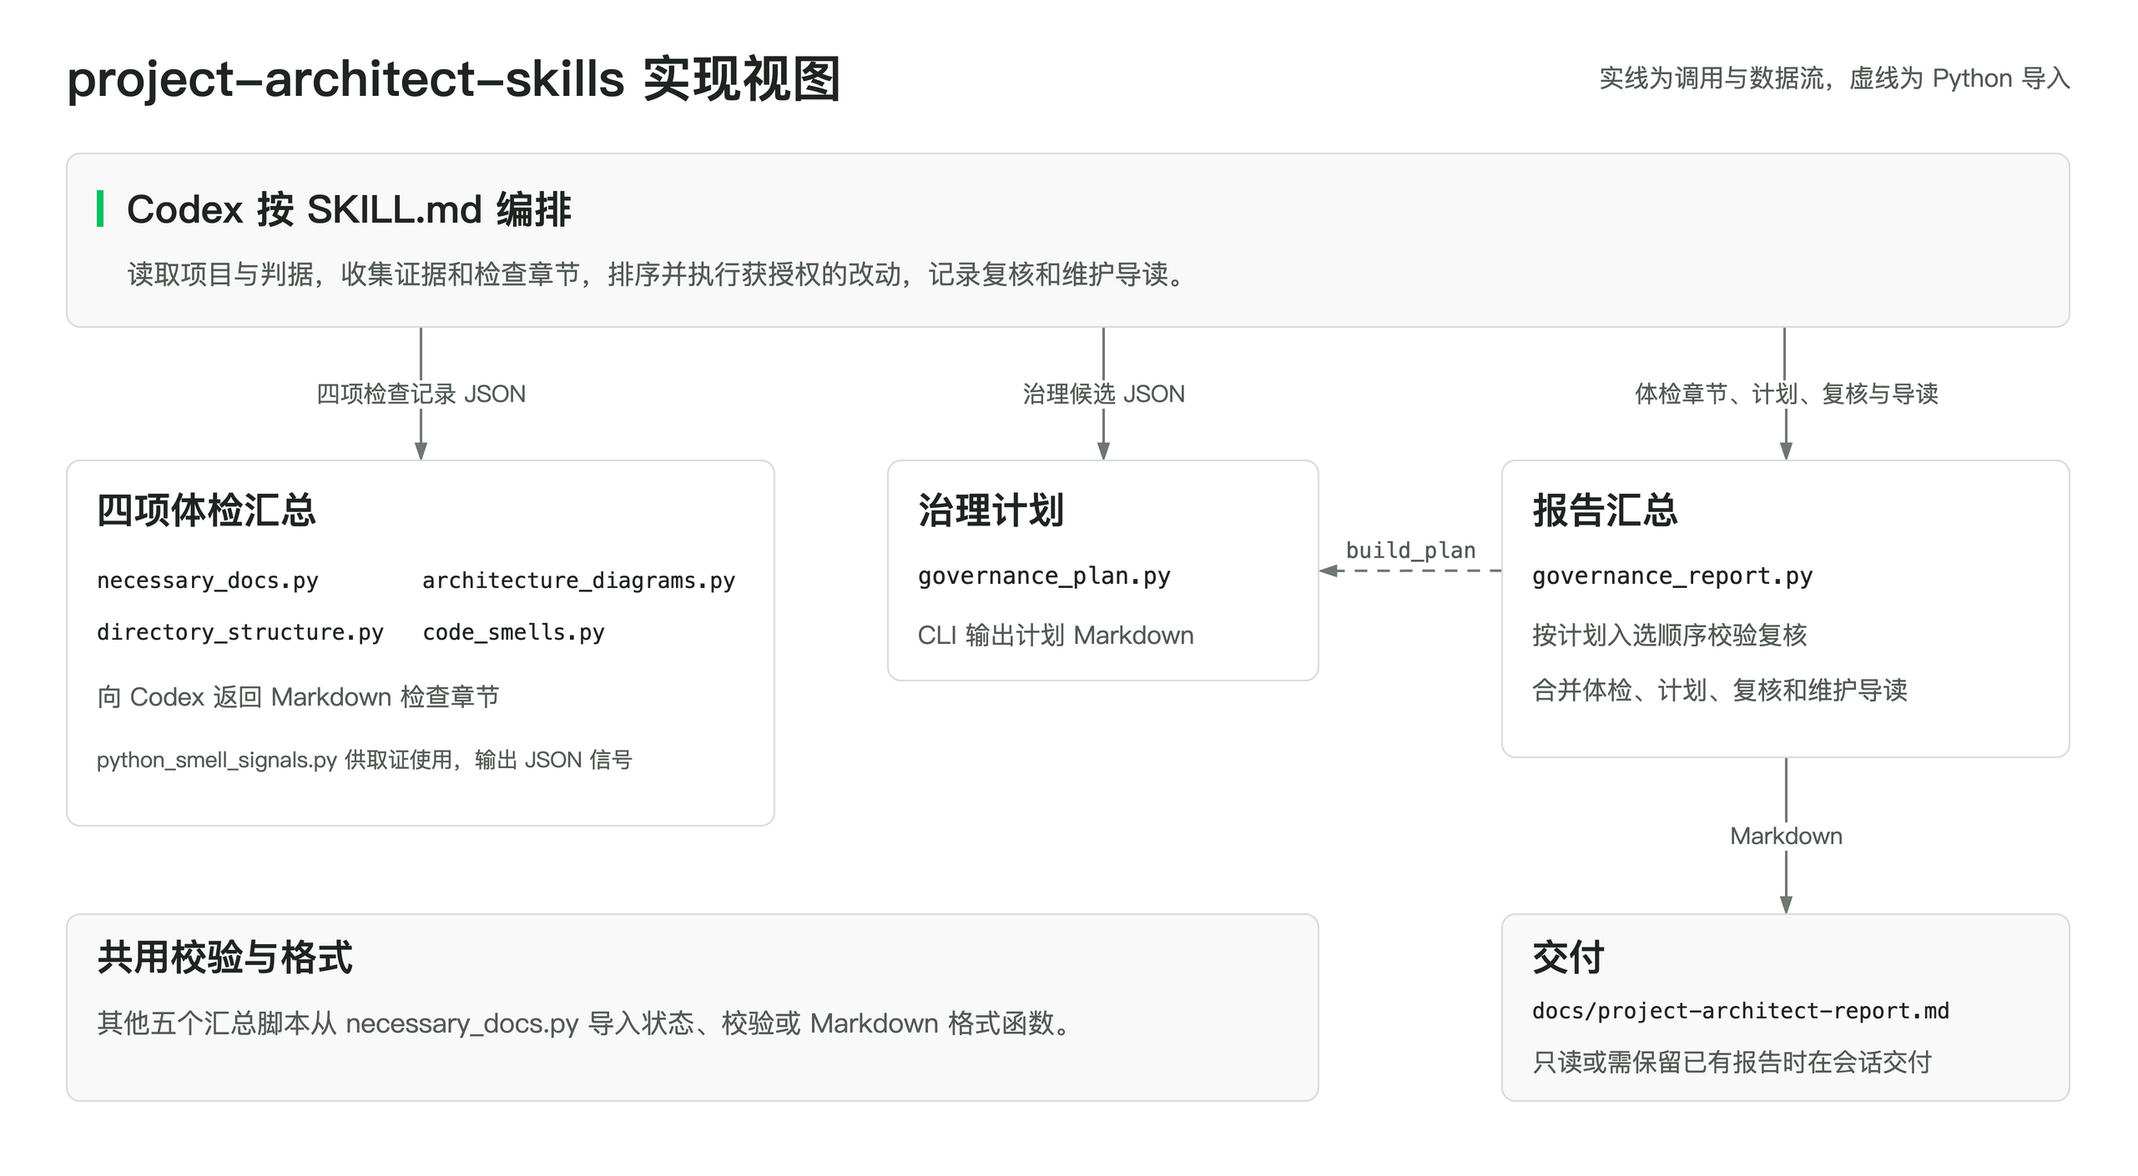
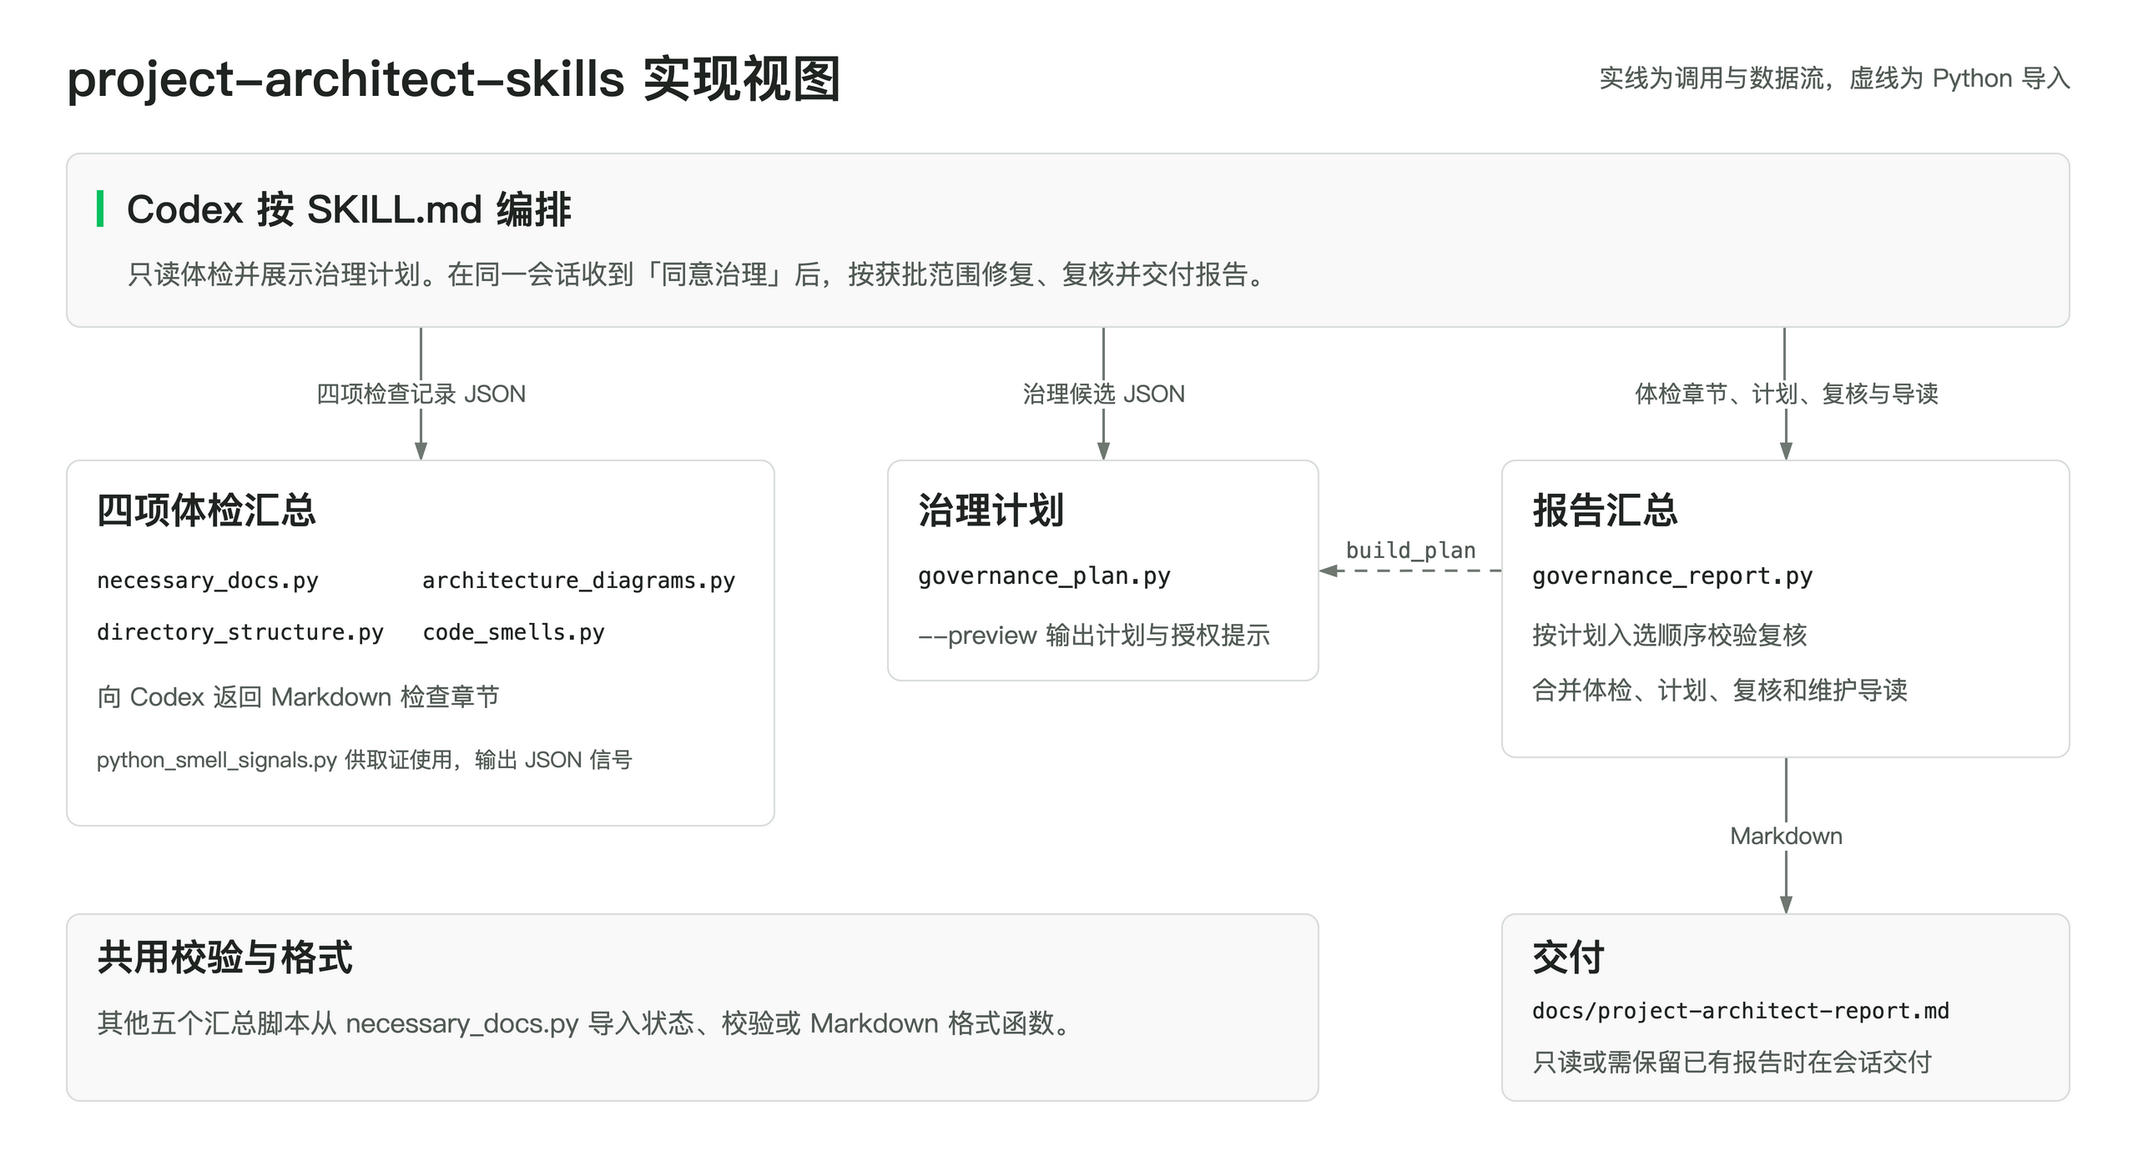
在治理流水线中加入修复授权

Changed region(s): [[0.0625, 0.2184, 0.5933, 0.2496], [0.4372, 0.5305, 0.5933, 0.5617]]

diff --git a/tests/test_governance_plan.py b/tests/test_governance_plan.py
@@ -31,9 +31,12 @@ def ready(title, target):
     )
 
 
-def run_plan(*candidates, mode="execute"):
+def run_plan(*candidates, mode="execute", preview=False):
+    command = [sys.executable, "-B", str(SCRIPT)]
+    if preview:
+        command.append("--preview")
     return subprocess.run(
-        [sys.executable, "-B", str(SCRIPT)],
+        command,
         input=json.dumps({"mode": mode, "candidates": candidates}, ensure_ascii=False),
         capture_output=True,
         text=True,
@@ -75,6 +78,28 @@ class GovernancePlanTests(unittest.TestCase):
         for field in ("reason", "impact", "scope", "baseline", "steps", "acceptance", "rollback"):
             with self.subTest(field=field):
                 self.assertIn(selected[field], plan)
+
+    def test_preview_preserves_plan_and_prompts_for_consent(self):
+        candidates = (
+            ready("补写验证说明", "README.md#验证"),
+            ready("更新模块图", "docs/modules.md#依赖"),
+            ready("补写运行示例", "README.md#运行"),
+            ready("补写接口约定", "docs/api.md#导出"),
+        )
+        plan = self.report(run_plan(*candidates))
+        preview = self.report(run_plan(*candidates, preview=True))
+        body, prompt = preview.rstrip().rsplit("\n\n", 1)
+        self.assertEqual(body, plan.rstrip().replace("本轮按以下顺序执行 3 项。", "本轮拟治理 3 项，待授权。"))
+        self.assertEqual(prompt, "请在当前会话回复 **同意治理**，我会按以上计划逐项修复和验收。")
+
+    def test_preview_without_selected_items_omits_consent_prompt(self):
+        selected = ready("补写验证说明", "README.md#验证")
+        blocked = candidate("整理导出路径", "src/export.py::export", status="待验证", reason="缺少输入样例。")
+        for candidates, mode in (((), "execute"), ((blocked,), "execute"), ((selected,), "inspect")):
+            with self.subTest(candidates=candidates, mode=mode):
+                plan = self.report(run_plan(*candidates, mode=mode))
+                self.assertEqual(self.report(run_plan(*candidates, mode=mode, preview=True)), plan)
+                self.assertNotIn("同意治理", plan)
 
     def test_inspect_keeps_suggestions_without_scheduling_any_write(self):
         plan = self.report(run_plan(

diff --git a/skills/project-architect-skills/scripts/governance_plan.py b/skills/project-architect-skills/scripts/governance_plan.py
@@ -22,7 +22,7 @@ PLAN_FIELDS = {
 }
 
 
-def build_plan(record):
+def build_plan(record, *, preview=False):
     if not isinstance(record, dict):
         raise ValueError("治理计划记录需要 JSON 对象")
     mode = record.get("mode")
@@ -77,7 +77,10 @@ def build_plan(record):
 
     lines = ["## 治理计划", ""]
     if selected:
-        lines.append(f"本轮按以下顺序执行 {len(selected)} 项。")
+        if preview:
+            lines.append(f"本轮拟治理 {len(selected)} 项，待授权。")
+        else:
+            lines.append(f"本轮按以下顺序执行 {len(selected)} 项。")
         for _, item in selected.values():
             lines.extend(["", *item])
     elif mode == "inspect" and deferred:
@@ -90,23 +93,26 @@ def build_plan(record):
             "| 发现 | 状态 | 原因 | 维护影响 | 核对依据 |",
             "| --- | --- | --- | --- | --- |", *deferred,
         ])
+    if preview and selected:
+        lines.extend(["", "请在当前会话回复 **同意治理**，我会按以上计划逐项修复和验收。"])
     return "\n".join(lines) + "\n", {target: title for target, (title, _) in selected.items()}
 
 
-def render_report(record):
-    return build_plan(record)[0]
+def render_report(record, *, preview=False):
+    return build_plan(record, preview=preview)[0]
 
 
 def main():
     parser = argparse.ArgumentParser(description=__doc__)
     parser.add_argument("record", nargs="?", type=Path, help="治理候选 JSON，默认读取标准输入")
+    parser.add_argument("--preview", action="store_true", help="预览拟治理事项并在有入选项时提示授权")
     args = parser.parse_args()
     try:
         if args.record is None:
             record = json.load(sys.stdin)
         else:
             record = json.loads(args.record.read_text(encoding="utf-8"))
-        report = render_report(record)
+        report = render_report(record, preview=args.preview)
     except (OSError, ValueError) as error:
         parser.exit(2, f"治理计划无法汇总（{error}）\n")
     sys.stdout.write(report)

diff --git a/skills/project-architect-skills/references/governance-plan.md b/skills/project-architect-skills/references/governance-plan.md
@@ -5,15 +5,15 @@
 1. 汇集本轮所选检查的发现及维护影响，引用仓库相对路径、符号或章节。同一改动能解决的多个发现合为一项，并保留各自的证据。例如同一方法的多类异味、多个章节提到的同一图件缺口。需要一起修改和回退的文件归入同一事项，写清改动范围。
 2. 按当前维护任务的具体阻碍排列候选。没有指定任务时，优先处理直接妨碍启动、定位入口或验证改动的问题。优先选择证据充分、能独立验收和回退的事项，写明它为何值得本轮处理。
 3. 给拟执行的事项记录最小改动范围、执行步骤和改前实测基线。先核对目标文件的当前内容及已有编辑，以原有入口、测试、固定输入或源码对照建立可重放的基线。验收写明操作、预期变化和需核对的行为。代码改动同时核对结构目标、主要调用方和用户可见行为。文档按说明实际操作，图件核对节点、连线和对应源码。回退写明恢复哪些位置、以哪个改前状态为准，以及怎样确认回退成功。
-4. 业务规则或适用性仍需核实的事项记为「待确认」。缺少关键基线或验收条件时记为「待验证」。其他因本轮优先级、权限或回退条件暂时无法安排的事项记为「暂缓」。记录具体原因，继续处理相互独立的事项。只检查时使用可见证据提出建议，避免运行会写入目标仓库的基线操作。
+4. 业务规则或适用性仍需核实的事项记为「待确认」。缺少关键基线或验收条件时记为「待验证」。其他因本轮优先级、权限或回退条件暂时无法安排的事项记为「暂缓」。记录具体原因，继续处理相互独立的事项。授权前以只读方式取证。基线操作会写入时，可在仓库外的隔离副本运行，并核对结果是否适用于当前工作区。
 
-每轮只生成一份计划，按最终计划顺序执行，最多三项。开始每项前重新核对证据、基线和工作区状态。已解决的事项跳过。证据、编辑或验收条件变化后，以当前状态重新判断，并在报告中记录跳过或暂缓的原因。保留原计划和实际复核记录，用计划项的序号和标题关联两者。
+每轮最多纳入三项。展示拟修复的目标仓库、具体范围和验收方式后，在当前会话等待用户回复「同意治理」或其他明确批准。已有明确授权的具体修复沿用原授权。工作区可写只表示具备写入能力。获批后沿用原计划顺序，开始每项前重新核对证据、基线和工作区状态。已解决的事项跳过。证据、编辑或验收条件变化时，记录跳过或暂缓的原因。新增或扩大改动范围须先获得确认。保留原计划和实际复核记录，用计划项的序号和标题关联两者。
 
 ## 生成报告章节
 
-用 `python3 -B <本 Skill 目录>/scripts/governance_plan.py` 从标准输入读取 UTF-8 JSON，或传入记录文件。宿主判断优先级和执行条件，脚本按提交顺序挑选前三个「可执行」事项，将其余发现和原因保留在同一 Markdown 章节。把该章节合并在体检章节之后、执行复核之前。
+用 `python3 -B <本 Skill 目录>/scripts/governance_plan.py` 从标准输入读取 UTF-8 JSON，或传入记录文件。宿主判断优先级和执行条件，脚本按提交顺序挑选前三个「可执行」事项，将其余发现和原因保留在同一 Markdown 章节。等待授权时加 `--preview`，有入选事项才输出回复「同意治理」的提示。获批后复用同一计划记录汇总正式报告，将计划放在体检与执行复核之间。
 
-- `mode` 为 `execute`（本轮可在已有授权内修订）或 `inspect`（本轮仅检查或仓库只读）。`inspect` 的候选均显示「未执行」。
+- `mode` 为 `execute`（拟定或汇总治理计划）或 `inspect`（只交付检查与建议）。`execute` 选择可执行事项，写入由宿主根据当前会话的授权决定。`inspect` 的候选均显示「未执行」，适用于只读、用户拒绝或仓库不可写的情况。
 - `candidates` 按优先级排列，无候选时传 `[]`。每项含 `target`（合并后的唯一治理目标，可用路径及符号或章节表达）、`title`、非空 `evidence` 出处数组、`impact`、`status` 和 `reason`。`reason` 对执行项给出优先理由，对其余项说明受阻或暂缓原因。仅检查的候选可用 `status: "未执行"`，并说明该建议对应的检查目的或已知限制。
 - `execute` 模式中，「可执行」事项还需 `scope`、`baseline`、`steps`、`acceptance` 和 `rollback` 五段非空文本。其余事项使用「待确认」「待验证」或「暂缓」。
 
@@ -22,7 +22,7 @@
 在本仓库根目录运行以下命令，样例中只纳入补写测试说明的事项。
 
 ```sh
-python3 -B skills/project-architect-skills/scripts/governance_plan.py <<'JSON'
+python3 -B skills/project-architect-skills/scripts/governance_plan.py --preview <<'JSON'
 {
   "mode": "execute",
   "candidates": [
@@ -32,7 +32,7 @@ python3 -B skills/project-architect-skills/scripts/governance_plan.py <<'JSON'
       "impact": "接手者能运行项目，但缺少检查姓名排序的步骤。",
       "status": "可执行", "reason": "验证步骤直接服务于本轮交接。",
       "scope": "在 README.md 的运行章节补写测试命令和预期结果。",
-      "baseline": "已读取运行章节并执行 `python3 -m unittest discover -s tests`，1 项通过。",
+      "baseline": "已读取运行章节并执行 `python3 -B -m unittest discover -s tests`，1 项通过。",
       "steps": "追加验证小节并记录实际通过的命令。",
       "acceptance": "按新小节运行命令，退出码为 0 且显示 1 项通过。",
       "rollback": "删去新增小节，与改前保存的 README.md 对照后重跑命令。"

diff --git a/README.md b/README.md
@@ -10,11 +10,11 @@
 project-architect-skills
 ```
 
-默认调用会检查四项，按维护影响生成一份[治理计划](skills/project-architect-skills/references/governance-plan.md)，并在已有授权内逐项处理至多三项。计划给出改动范围、改前基线、验收方法和回退办法。已有维护任务可以直接附上，例如「我要改订单导出的列名」。只想查看某项诊断时，可以输入「用 project-architect-skills 只读检查代码异味」或指定其他检查项。
+默认调用先只读完成四项体检，随后展示体检摘要和至多三项拟修复事项。计划给出改动范围、改前基线、验收方法和回退办法。确认后，在同一会话回复 **同意治理**，助手会按计划逐项修复和验收。已有维护任务可以直接附上，例如「我要改订单导出的列名」。只想查看某项诊断时，可以输入「用 project-architect-skills 只读检查代码异味」或指定其他检查项。[治理计划](skills/project-architect-skills/references/governance-plan.md)
 
 检查前先判断项目规模。小项目通查相关资料，中等项目分模块核对，大项目优先检查主要业务路径和跨模块依赖。判档和取证方式见[项目规模与取证范围](skills/project-architect-skills/references/project-size.md)。
 
-报告列出规模依据、已查范围、逐项结论、治理计划和复核结果。待确认、待验证或暂缓的事项保留证据和原因。维护导读给出下次改动的入口、受影响的调用方和自查方法。默认报告路径为目标项目的 `docs/project-architect-report.md`。只读或需要保留同名人工报告时，全文在会话交付。[执行复核与维护导读](skills/project-architect-skills/references/execution-and-handover.md)
+报告列出规模依据、已查范围、逐项结论、治理计划和复核结果。待确认、待验证或暂缓的事项保留证据和原因。维护导读给出下次改动的入口、受影响的调用方和自查方法。治理获批后，报告默认保存到目标项目的 `docs/project-architect-report.md`。只读、没有可执行项、拒绝治理或需要保留同名人工报告时，全文在会话交付。[执行复核与维护导读](skills/project-architect-skills/references/execution-and-handover.md)
 
 ## 验证模块
 
@@ -91,8 +91,10 @@ git -C "$governance_project" -c user.name=Fixture -c user.email=fixture@example.
 printf '%s\n' "$governance_project"
 ```
 
-在可写的 Codex 会话中打开输出的临时目录，只输入一次 `project-architect-skills`。完成后核对以下结果。
+在可写的 Codex 会话中打开输出的临时目录，输入 `project-architect-skills`。先核对体检摘要和待授权计划都已展示，列出的两项分别指向 `README.md` 和 `test_names.py`。在临时仓库根目录运行 `git status --short`，应无输出。随后在同一会话回复 **同意治理**，完成后核对以下结果。
 
 - `README.md` 增加验收步骤及预期输出。`test_names.py` 移到 `tests/`。
 - 在临时仓库根目录运行 `python3 -B names.py`，仍输出 `Ada, Bob`。运行 `python3 -B -m unittest discover -s tests`，1 项通过。
 - `docs/project-architect-report.md` 包含四项体检、两项已通过的执行复核和维护导读。两项改动都有各自的改前基线和验收证据。
+
+另建一份相同的临时仓库，收到授权提示后回复「不同意治理」。会话应交付检查结果和未执行的建议，`git status --short` 仍无输出。

diff --git a/skills/project-architect-skills/references/execution-and-handover.md b/skills/project-architect-skills/references/execution-and-handover.md
@@ -2,6 +2,8 @@
 
 ## 逐项执行与复核
 
+收到用户对当前治理计划的明确批准后，按本轮获批范围执行。部分获批时，将其余入选事项记为「暂缓」。发现需要新增事项或扩大改动范围时，先交代变化并取得该范围的授权。
+
 1. 按计划顺序一次处理一项。重读目标和调用方，对照计划证据、改前基线与当前工作区。把已解决的事项记为「已解决」。证据仍不足时记「待确认」，必要验收无法运行时记「待验证」。记录原因后继续处理独立事项。
 2. 在目标仓库外保存本项涉及文件的改前状态，包含改前已存在的编辑。记录原先不存在的路径和移动的源、目标位置。将本项编辑限制在计划范围，复查实际差异，并留下可归属于本项的补丁或改后文件状态。
 3. 执行验收并记录操作、预期、观察及出处。改代码同时复核结构目标、主要调用方与可见行为，按同一固定输入或测试对照改前结果。补文档时实际按说明走一遍。补图时核对模块、连线方向、对应源码与项目的导出约定。分别记录改前已有的失败和本次新差异。
@@ -11,7 +13,7 @@
 
 从当前工作区重新核对下一次维护用得到的入口、调用方和自查方法。给出仓库相对路径、符号或章节，以及查证过的调用关系。用实际输入、命令或核对步骤说明改完应该看到什么。若本轮改动涉及这个入口，关联已通过的计划事项。回退后以恢复后的实际入口为准。
 
-没有可执行事项或本轮只读时，沿已核实的业务路径交付导读。资料不足时，给出已读边界和尚需核对的事实。再次调用时依据当前文件重新取证，排除旧报告和临时取证记录。
+没有可执行事项、用户拒绝或本轮只读时，沿已核实的业务路径交付导读。用户拒绝时以 `inspect` 模式记录未执行的建议，`reviews` 传 `[]`。资料不足时，给出已读边界和尚需核对的事实。再次调用时依据当前文件重新取证，排除旧报告和临时取证记录。
 
 用 `python3 -B <本 Skill 目录>/scripts/governance_report.py` 从标准输入读取 UTF-8 JSON，也可传入记录文件。以目标仓库为工作目录。报告合并初次体检、改动前的计划、逐项复核和当前导读。必要时在复核中补充修订后的覆盖结论。
 

diff --git a/AGENTS.md b/AGENTS.md
@@ -26,7 +26,7 @@
 - `python3 -B -m unittest discover -s tests -v` 运行全部测试并显示每个用例的结果。
 - `python3 skills/project-architect-skills/scripts/necessary_docs.py record.json` 读取检查记录并将报告写到标准输出。将 `record.json` 替换为实际文件路径，省略路径则从标准输入读取。可先运行[最小示例](skills/project-architect-skills/references/necessary-documents.md#最小可运行示例)。
 
-在 Codex 会话中输入 `用 project-architect-skills 只读检查代码异味` 可查看单项诊断。直接输入 `project-architect-skills` 时，助手会检查四项，并可能在目标项目中处理已确认的发现。
+在 Codex 会话中输入 `用 project-architect-skills 只读检查代码异味` 可查看单项诊断。直接输入 `project-architect-skills` 时，助手会检查四项并展示拟修复事项。回复「同意治理」后，助手按获批范围执行和复核。
 
 ## 编码风格与命名
 
